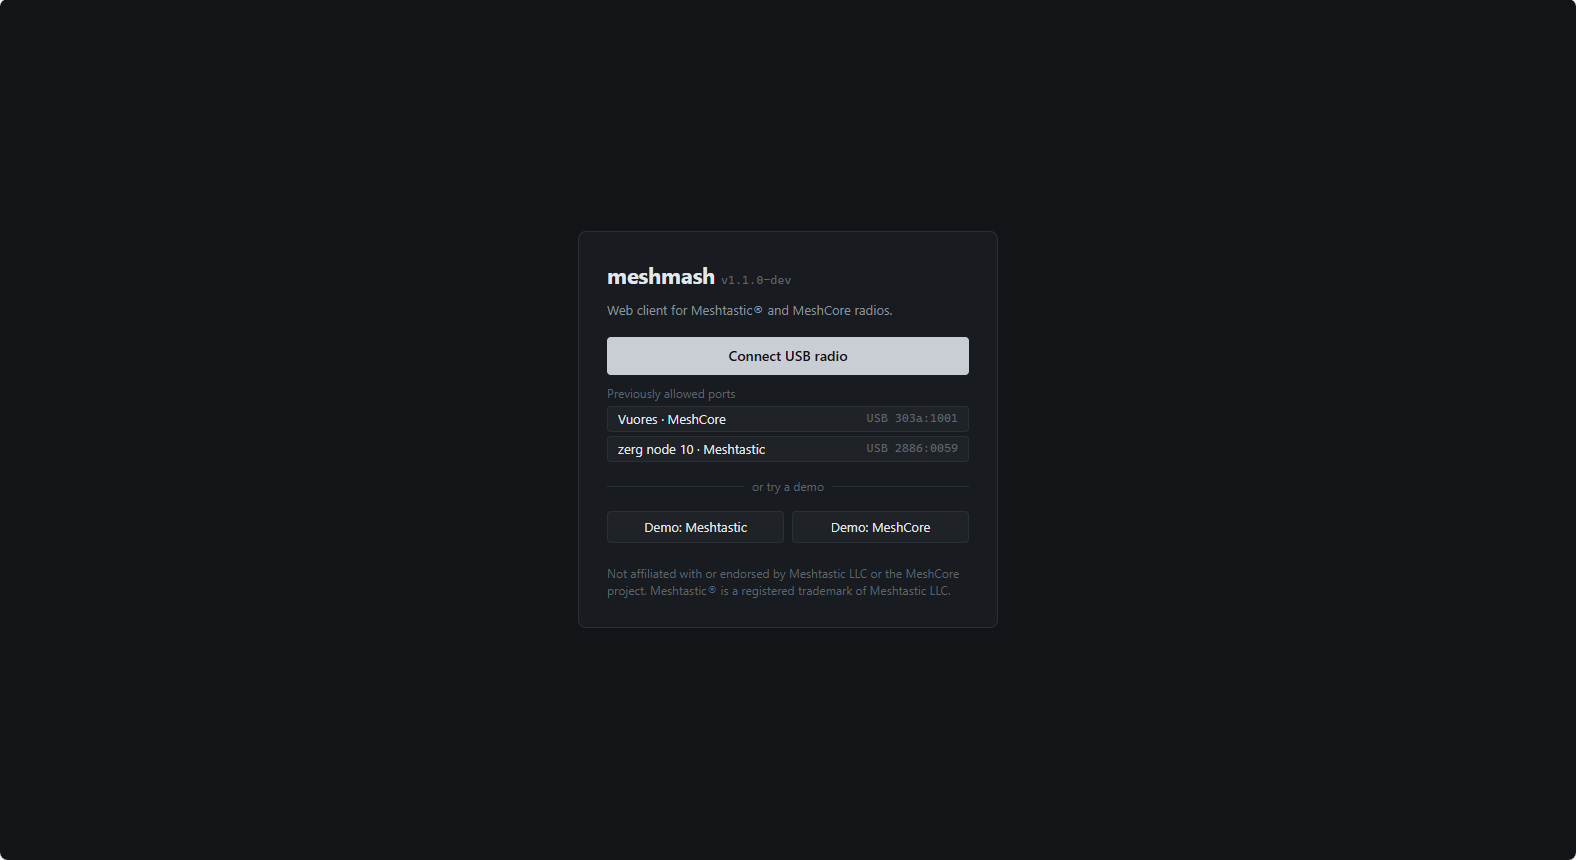
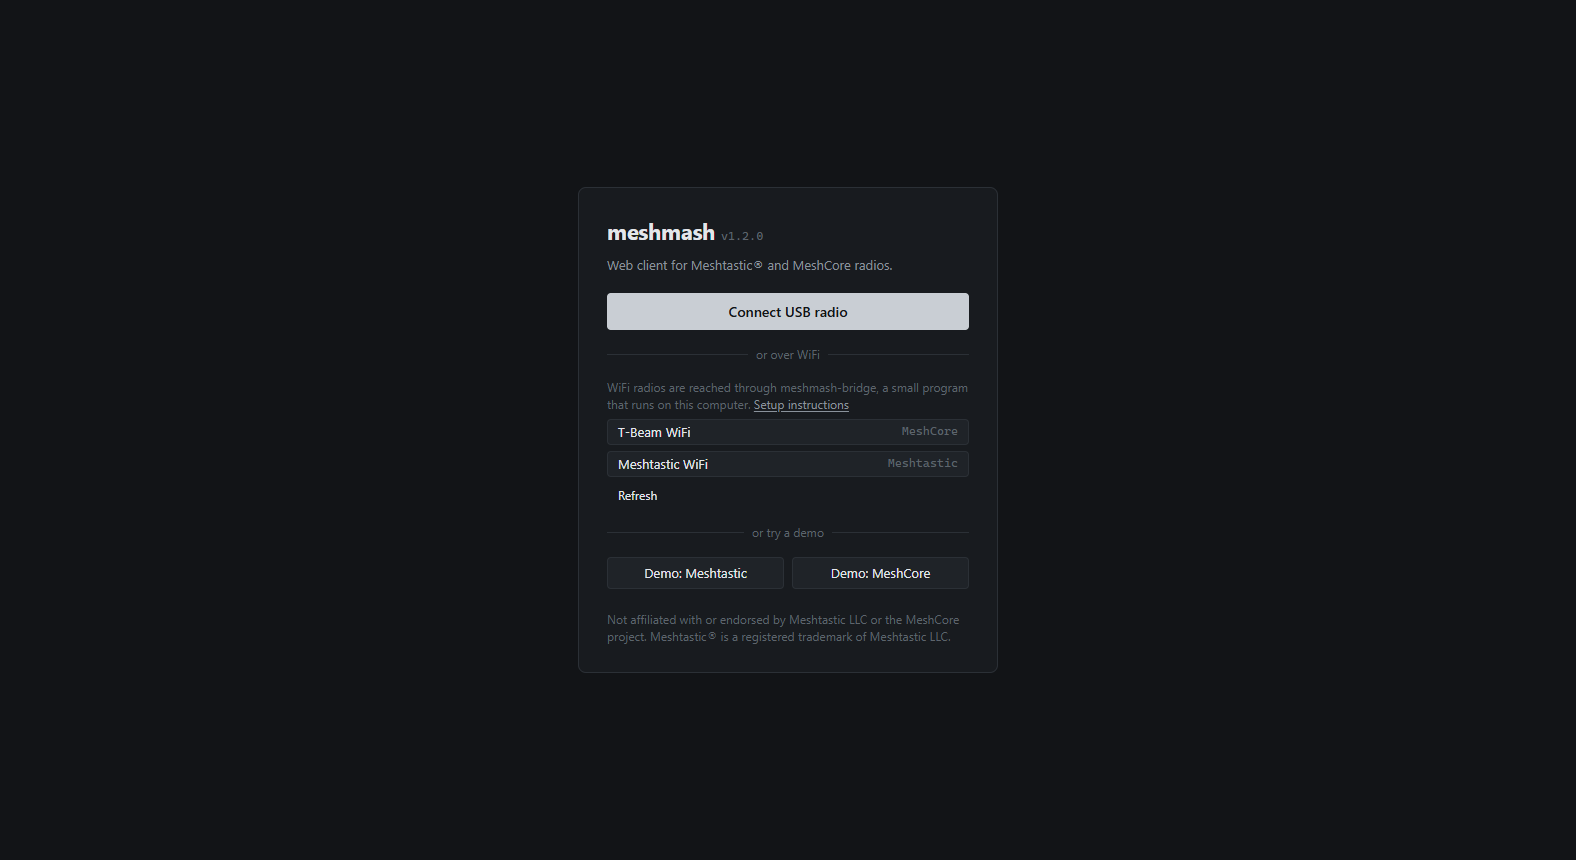
README: WiFi radios, new screenshots
- WiFi radios through meshmash-bridge in intro, features and requirements
- Screenshots: connect screen, channel editor, own radio hop limit

diff --git a/README.md b/README.md
@@ -4,18 +4,21 @@ Browser client for Meshtastic® and MeshCore LoRa mesh radios.
 
 Plug a radio in over USB, open the page, and meshmash detects whether it runs Meshtastic or
 MeshCore and adapts the interface to it. No install, no account, no server: the page talks to
-the radio directly over Web Serial, and everything it keeps stays in the browser.
+the radio directly over Web Serial, and everything it keeps stays in the browser. Radios on
+WiFi are reached through [meshmash-bridge](bridge/README.md), a small program run on the same
+computer.
 
 ![MeshCore repeater status, sensors and neighbours](docs/screenshots/mc-repeater.png)
 
 **Open meshmash: <https://www.simol.in/meshmash/>** (Chrome, Edge or another Chromium browser)
 
-Development version, built from `main` with WiFi radios enabled:
-<https://www.simol.in/meshmash-dev/>. It changes often and may break.
+Development version, built from `main`: <https://www.simol.in/meshmash-dev/>. It changes often
+and may break.
 
 ## Features
 
 **Both protocols**
+- USB radios over Web Serial; WiFi radios through meshmash-bridge
 - Protocol and firmware detection; the interface follows the radio's capabilities
 - Channels and direct messages with delivery state, search, unread markers and per-thread byte limits
 - Channel add, edit and delete
@@ -54,12 +57,14 @@ Development version, built from `main` with WiFi radios enabled:
 | ![Map with a coarse position selected](docs/screenshots/mt-map.png) Map, coarse position selected | ![Meshtastic nodes by distance](docs/screenshots/mt-nodes.png) Meshtastic nodes by distance, `~` = coarse |
 | ![Meshtastic channel messages](docs/screenshots/mt-messages.png) Meshtastic channel | ![Protocol log](docs/screenshots/mc-log.png) Protocol log |
 | ![MeshCore channel messages](docs/screenshots/mc-messages.png) MeshCore channel | ![MeshCore trace path history](docs/screenshots/mc-route.png) MeshCore two-hop trace and history |
-| ![Hop limit picker](docs/screenshots/mt-hops.png) Hop limit per message | ![Connect screen](docs/screenshots/connect.png) Connect screen |
+| ![Hop limit picker](docs/screenshots/mt-hops.png) Hop limit per message | ![Channel editor](docs/screenshots/mt-channel.png) Channel editor |
+| ![Own radio details with hop limit setting](docs/screenshots/mt-node-self.png) Own radio, hop limit setting | ![Connect screen](docs/screenshots/connect.png) Connect screen, USB and WiFi radios |
 
 ## Requirements
 
 - A Chromium-based desktop browser (Chrome, Edge, Opera): Web Serial is not available in Firefox or Safari
-- A Meshtastic or MeshCore (companion USB firmware) radio connected by USB
+- A Meshtastic or MeshCore (companion firmware) radio, connected by USB, or on WiFi with
+  [meshmash-bridge](bridge/README.md) running
 - Demo modes for both protocols work without a radio
 
 Bluetooth and radio configuration are not implemented yet.
@@ -74,9 +79,8 @@ npm test        # unit tests
 npm run build   # static build in dist/
 ```
 
-WiFi radios are an optional part of the build: `VITE_BRIDGE=1 npm run build` (or `npm run dev`)
-adds them, reached through the local [meshmash-bridge](bridge/README.md). Without the variable
-the build has no trace of it.
+WiFi radios need `VITE_BRIDGE=1` at build time (`VITE_BRIDGE=1 npm run build` or `npm run dev`).
+Without it the build has no WiFi code or UI.
 
 The protocol codecs are written from the firmware sources; no Meshtastic or MeshCore JavaScript
 libraries are used. Protocol notes are in [docs/](docs).
